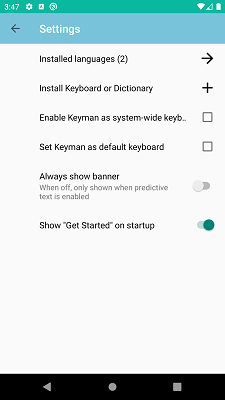
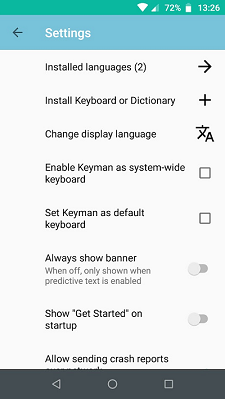
feat(android): Create new content for Settings

diff --git a/products/android/14.0/basic/config/using-settings-screen.md b/products/android/14.0/basic/config/using-settings-screen.md
@@ -7,8 +7,11 @@ title: Using the Settings Screen - Keyman for Android Help
 This Settings screen is used to configure keyboards and dictionaries.
 It also has many of the options that are available on the 'Get Started' menu. To access the Settings screen:
 
-Step 1. Open the Keyman app.
-Step 2. Click the menu for additional options. Select 'Settings'
+Step 1)
+Open the Keyman app.
+
+Step 2)
+Click the menu for additional options. Select 'Settings'
 
 ![](../../android_images/settings-screen-ap.png)
 
@@ -42,6 +45,11 @@ bring up the Android system configuration so Keyman can be added as a system-wid
 ## Set Keyman as default keyboard
 Click on this to bring up the Android system configuration for setting Keyman as the default system-wide keyboard.
 
+## Change Display Language
+![](../../android_images/ic_translate_a.png)
+
+Click on this to change the display language of the Keyman for Android app. The list of available languages come from [translate.keyman.com](https://translate.keyman.com). If a translation is available, Keyman for Android will default to the device's default locale.
+
 ## Always show banner
 This toggle is reserved for future features. When off, the text suggestion banner is only displayed when
 the dictionary is enabled. The language associated with the keyboard must match the language associated with
@@ -49,3 +57,6 @@ the dictionary.
 
 ## Show "Get Started" on startup
 When enabled, the Keyman app will display the 'Get Started' screen on app startup.
+
+## Allow sending crash reports over network
+When enabled, the Keyman app will send crash reporting information to https://sentry.keyman.com. No personally identifiable information or keyboard strokes are recorded.

diff --git a/products/android/14.0/context/menu_phone.md b/products/android/14.0/context/menu_phone.md
@@ -1,0 +1,24 @@
+---
+title: Keyman for Android (Phone Layout)
+---
+
+|   | Keyboard Keys (Keyboard Present) |
+|---|---|
+| ![](../android_images/globe-ap.png) | Select another language/keyboard |
+| ![](../android_images/hide-keyboard-ap.png) | Hide the keyboard |
+| ![](../android_images/backspace-ap.png) | Backspace |
+| ![](../android_images/return-ap.png) | Return |
+| ![](../android_images/shift-ap.png) | Shift key. Long press this key to access the <kbd>CTRL</kbd>, <kbd>ALT</kbd> and <kbd>CTRL</kbd><kbd>ALT</kbd> keys (which can access additional key layers) |
+| ![](../android_images/touch-hold-ap.png) | Keys with a small dot in the top right corner indicate a long press key. Access further functionality by long pressing the key |
+| ![](../android_images/share-a.png) | Share your text with other apps like Messages, Gmail, or Twitter. Some versions of Android also let you copy your text to the clipboard. |
+| ![](../android_images/browser-a.png) | Open the Keyman Browser to use the web in your language |
+| ![](../android_images/menu-icon-a.png) | Open the menu for additional options |
+| ![](../android_images/font-size-a.png) | Adjust the font size |
+| ![](../android_images/delete-a.png) | Delete all current text |
+| ![](../android_images/info-a.png) | Load this help page |
+| ![](../android_images/get-started-a.png) | Open the initial setup screen |
+| ![](../android_images/settings-a.png) | Open the [Keyman Settings](../basic/config/using-settings-screen) screen |
+| ![](../android_images/ic_cloud_download.png) | Update available to download for keyboard / dictionary |
+
+### See Also
+* [Keyman for Android (Tablet Layout)](menu_tablet)

diff --git a/products/android/14.0/context/menu_tablet.md b/products/android/14.0/context/menu_tablet.md
@@ -1,0 +1,24 @@
+---
+title: Keyman for Android (Tablet Layout)
+---
+
+|   | Keyboard Keys (Keyboard Present) |
+|---|---|
+| ![](../android_images/globe-at.png) | Select another language/keyboard |
+| ![](../android_images/hide-keyboard-at.png) | Hide the keyboard |
+| ![](../android_images/backspace-at.png) | Backspace |
+| ![](../android_images/return-at.png) | Return |
+| ![](../android_images/shift-at.png) | Shift key. Long press this key to access the <kbd>CTRL</kbd>, <kbd>ALT</kbd> and <kbd>CTRL</kbd><kbd>ALT</kbd> keys (which can access additional key layers) |
+| ![](../android_images/touch-hold-at.png) | Keys with a small dot in the top right corner indicate a long press key. Access further functionality by long pressing the key |
+| ![](../android_images/share-a.png) | Share your text with other atps like Messages, Gmail, or Twitter. Some versions of Android also let you copy your text to the clipboard. |
+| ![](../android_images/browser-a.png) | Open the Keyman Browser to use the web in your language |
+| ![](../android_images/menu-icon-a.png) | Open the menu for additional options |
+| ![](../android_images/font-size-a.png) | Adjust the font size |
+| ![](../android_images/delete-a.png) | Delete all current text |
+| ![](../android_images/info-a.png) | Load this help page |
+| ![](../android_images/get-started-a.png) | Open the initial setup screen |
+| ![](../android_images/settings-a.png) | Open the [Keyman Settings](../basic/config/using-settings-screen) screen |
+| ![](../android_images/ic_cloud_download.png) | Update available to download for keyboard / dictionary |
+
+### See Also
+* [Keyman for Android (Phone Layout)](menu_phone)

diff --git a/products/android/14.0/start/installing-keyboards.md b/products/android/14.0/start/installing-keyboards.md
@@ -5,18 +5,22 @@ title: How To - Download and Install a Keyman Keyboard
 ## Adding New Keyboards
 To add keyboards, follow these steps:
 
-Step 1) Open the menu for additional options. Select 'Settings'
+Step 1)
+Open the menu for additional options. Select 'Settings'
 
-Step 2) From the Keyman Settings menu, select 'Installed languages'
+Step 2)
+From the Keyman Settings menu, select 'Installed languages'
 
 ![](../android_images/settings-language-ap.png)
     
-Step 3) From the 'Installed languages' menu, touch the **+**
+Step 3)
+From the 'Installed languages' menu, touch the **+**
 button in the bottom right corner of your screen.
 
 ![](../android_images/plus-a.png)
 
-Step 4) A keyboard search page will appear. Type in the search box to look for a keyboard based on: keyboard name, language name, or country. 
+Step 4)
+A keyboard search page will appear. Type in the search box to look for a keyboard based on: keyboard name, language name, or country. 
 
 To search for a specific BCP 47 language code, use a search `l:id:`.
 
@@ -32,7 +36,8 @@ A notification will appear when the keyboard package is downloading in the backg
 
 ![](../android_images/khmer-downloading-a.png)
 
-Step 5) Once the download is complete, you'll see 2 or 3 step process to install the new keyboard package.
+Step 5)
+Once the download is complete, you'll see 2 or 3 step process to install the new keyboard package.
 
 a) Display the readme.htm documentation (if the keyboard includes it).
 

diff --git a/products/android/14.0/basic/using-keyman-browser.md b/products/android/14.0/basic/using-keyman-browser.md
@@ -3,13 +3,16 @@ title: Using the Keyman Browser - Keyman for Android Help
 ---
 
 ## Using the Keyman Browser
-Step 1) Click the Keyman Browser button in the Keyman app
+Step 1)
+Click the Keyman Browser button in the Keyman app
 
-Step 2) Enter the URL of a website to visit into the address bar, for example <strong>google.com</strong>.
+Step 2)
+Enter the URL of a website to visit into the address bar, for example <strong>google.com</strong>.
 
-Keyman Browser will load the page and detect your language if it is present, and reformat it to show your
-  language instead of square boxes.
+Keyman Browser will load the page and detect your language if it is present, and reformat it to show your language instead of square boxes.
 
-Step 3) Use the bookmark button to save the current page for browsing later.
+Step 3)
+Use the bookmark button to save the current page for browsing later.
 
-Step 4) Use the Globe icon to swap between languages.
+Step 4)
+Use the Globe icon to swap between languages.

diff --git a/products/android/14.0/start/enabling-system-keyboard.md b/products/android/14.0/start/enabling-system-keyboard.md
@@ -3,12 +3,14 @@ title: How To - Enabling Keyman as a System-Wide Keyboard
 ---
 
 ## Enabling System Wide Keyboards
-Step 1) Open the Keyman app and select the menu for additional options.
+Step 1)
+Open the Keyman app and select the menu for additional options.
 The screenshots below are of a device running Android 9.0 Pie.
 
 ![](../android_images/settings1-ap.png)
 
-Step 2) Select 'Get Started' and then select 'Enable Keyman as system-wide keyboard'.
+Step 2)
+Select 'Get Started' and then select 'Enable Keyman as system-wide keyboard'.
 
 ![](../android_images/settings2-ap.png)
 
@@ -16,7 +18,8 @@ This will open an Android settings screen for 'Available virtual keyboard'.
 
 ![](../android_images/settings3-ap.png)
 
-Step 3) Enable 'Keyman' as an available virtual keyboard.
+Step 3)
+Enable 'Keyman' as an available virtual keyboard.
 This will bring up two confirmation dialogs.
 
 ![](../android_images/settings4-ap.png)

diff --git a/products/android/14.0/about/whatsnew.md b/products/android/14.0/about/whatsnew.md
@@ -1,0 +1,20 @@
+---
+title: What's New
+---
+
+Here are some of the new features we have added to Keyman for Android 14.0:
+
+* Improved UI for installing keyboard packages (#3498)
+* Select a language during keyboard package installation (#3481)
+
+![](../android_images/select_language.png)
+
+* Added new menu to add languages for an installed keyboard package (#3255)
+* Consolidated install menus for installing keyboards (#3245)
+* Fix slow input in the embedded browser (#3768)
+* Add system globe action to show system keyboards (#3197)
+* Improved corrections and predictions (#3555)
+* Match user input capital letters when offering suggestions (#3845)
+* Update minimum Android SDK to 21 (Android 5.0 Lollipop) (#2993)
+* Keyman now works more reliably with WeChat and Telegram (#4254)
+* Added new menu to change the display language (#4261)

diff --git a/products/android/14.0/troubleshooting/grant-storage-permission.md b/products/android/14.0/troubleshooting/grant-storage-permission.md
@@ -6,9 +6,11 @@ title: How To - Granting Storage Permission
 If Keyman for Android is permanently denied storage access, attempts to install custom packages will fail with the
 notification "Storage permission request was denied". Perform these steps to grant Keyman for Android access to storage
 
-Step 1) Go to Android Settings.
+Step 1)
+Go to Android Settings.
 
-Step 2) Depending on your device, click "Apps", "Apps & notifications", or "App permissions" and grant Keyman
+Step 2)
+Depending on your device, click "Apps", "Apps & notifications", or "App permissions" and grant Keyman
 storage permission. The screenshot below is from Android 9.0 Pie.
 
 ![](../android_images/keyman-storage-permission-ap.png)

diff --git a/products/android/14.0/troubleshooting/keyboard-help.md b/products/android/14.0/troubleshooting/keyboard-help.md
@@ -1,0 +1,22 @@
+---
+title: How To - Getting Keyboard Help
+---
+
+## Accessing Keyboard Help
+When a keyboard package is installed, it usually includes help information for using the keyboard.
+
+Step 1)
+Open the keyboard list by touching the globe key.
+
+![](../android_images/globe-ap.png)
+
+Step 2)
+Touch the info icon for your keyboard.
+
+![](../android_images/info-a-gray.png)
+
+
+## Accessing Online Keyboard Help
+Help documentation for Keyman keyboards is also available at
+
+https://help.keyman.com/keyboard/

diff --git a/products/android/14.0/about/welcome.md b/products/android/14.0/about/welcome.md
@@ -1,0 +1,10 @@
+---
+title: Welcome to Keyman
+---
+
+Thank you for installing Keyman for Android. Whether you're a new or returning user, we believe you will appreciate teh significant enhancements in this latest version of Keyman for Android.
+
+## What is Keyman for Android?
+Keyman for Android lets you type in over 600 languages on Android mobiles and tablets.
+
+[Click here](../start) to get started

diff --git a/products/android/14.0/start/index.md b/products/android/14.0/start/index.md
@@ -1,0 +1,6 @@
+---
+title: Getting Started
+---
+
+* [How To - Download and Install a Keyman Keyboard](installing-keyboards)
+* [How To - Enabling Keyman as a System-Wide Keyboard](enabling-system-keyboard)

diff --git a/products/android/14.0/troubleshooting/index.md b/products/android/14.0/troubleshooting/index.md
@@ -1,0 +1,5 @@
+---
+title: Troubleshooting
+---
+
+* [How To - Grant Storage Permission](grant-storage-permission)
